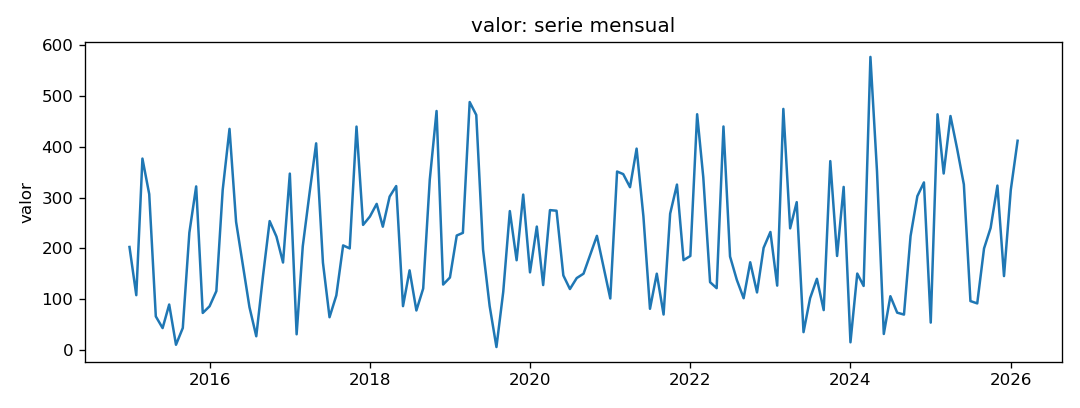
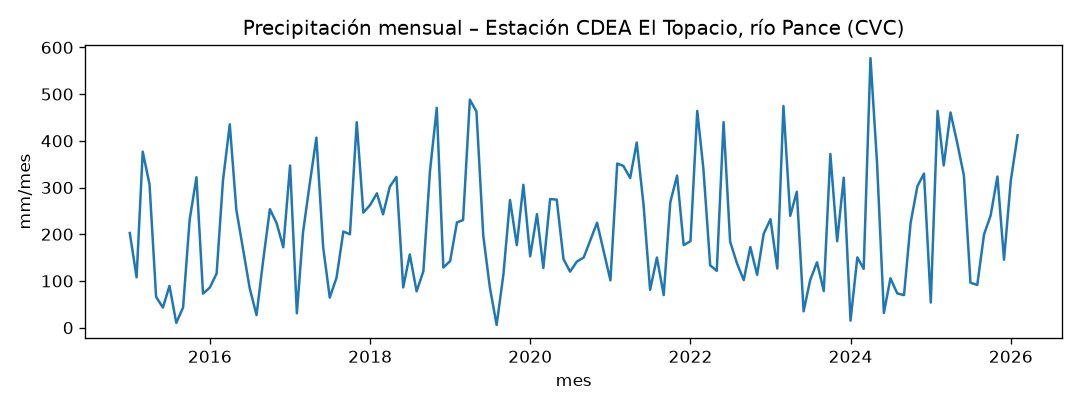
Parte 1: ficha de datos, atípicos sobre residuo STL y sección 1 del informe

diff --git a/miniproyecto.py b/miniproyecto.py
@@ -44,7 +44,7 @@ PERIODO = 12
 
 # Lo que se hizo con los huecos y con los datos atípicos, en una línea. Va
 # a la columna `decision` de la tabla de métricas.
-DECISION = "Sin huecos: índice mensual completo verificado, sin códigos de faltante; atípicos conservados por lluvia real"
+DECISION = "Sin huecos (regla del 80 % no activada); atípicos del residuo STL conservados; meses con totales diarios señalados como posible artefacto"
 
 
 def preparar(serie):
@@ -77,13 +77,23 @@ def preparar(serie):
     print(f"  Valores negativos / centinelas  : {negativos}")
     print(f"  Meses con lluvia = 0 mm         : {ceros} (mínimo observado: {serie.min():.1f} mm)")
 
-    # 3. Detección de atípicos estadísticos
-    q1 = serie.quantile(0.25)
-    q3 = serie.quantile(0.75)
+    # 3. Atípicos sobre el residuo de la STL robusta: compara cada mes con lo
+    # esperado para ese mes (tendencia + estacional), no con toda la serie
+    stl = STL(serie, period=PERIODO, robust=True).fit()
+    residuo = stl.resid
+    q1, q3 = residuo.quantile([0.25, 0.75])
     iqr = q3 - q1
-    atipicos = serie[(serie < q1 - 1.5 * iqr) | (serie > q3 + 1.5 * iqr)]
-    print(f"  Atípicos estadísticos (1.5*IQR) : {len(atipicos)} meses detectados (máximo: {serie.max():.1f} mm en {serie.idxmax():%Y-%m})")
-    print(f"  Decisión sobre atípicos         : Conservar (corresponden a lluvia real / eventos La Niña)\n")
+    limite_inf, limite_sup = q1 - 1.5 * iqr, q3 + 1.5 * iqr
+    atipicos = residuo[(residuo < limite_inf) | (residuo > limite_sup)]
+    print(f"  Atípicos (IQR del residuo STL)  : {len(atipicos)} meses fuera de "
+          f"[{limite_inf:.1f}, {limite_sup:.1f}] mm")
+    tabla = pd.DataFrame({"observado": serie[atipicos.index],
+                          "esperado": (stl.trend + stl.seasonal)[atipicos.index],
+                          "residuo": atipicos,
+                          "peso STL": pd.Series(stl.weights, index=serie.index)[atipicos.index]})
+    tabla.index = tabla.index.strftime("%Y-%m")
+    print(tabla.sort_values("residuo", key=abs, ascending=False).round(2).to_string())
+    print("  Decisión sobre atípicos         : conservar (meses con totales diarios: posible artefacto de medición)\n")
 
     # Validaciones formales
     assert nans_al_reindexar == 0, f"Faltan {nans_al_reindexar} meses en la secuencia histórica"
@@ -96,8 +106,9 @@ def preparar(serie):
 def graficar_serie(serie):
     figura, eje = plt.subplots(figsize=(9, 3.4))
     eje.plot(serie.index, serie.to_numpy())
-    eje.set_title(f"{VALOR}: serie mensual")
-    eje.set_ylabel(VALOR)
+    eje.set_title("Precipitación mensual – Estación CDEA El Topacio, río Pance (CVC)")
+    eje.set_ylabel("mm/mes")
+    eje.set_xlabel("mes")
     figura.tight_layout()
     figura.savefig(FIGURAS / "serie.png", dpi=120)
     plt.close(figura)

diff --git a/docs/informe.md b/docs/informe.md
@@ -7,13 +7,115 @@ figuras son las que ese guion deja en `figuras/`. Las fórmulas van en LaTeX
 
 ## 1. La serie
 
-{{Qué mide la serie, de dónde sale (fuente y licencia), frecuencia, periodo y
-número de observaciones. Por qué el grupo la eligió.}}
+La serie es la **precipitación mensual acumulada (mm)** de la estación
+**CDEA El Topacio** (código 2629020601), en la cuenca del río Pance (Cali,
+Valle del Cauca). Proviene de la red hidrometeorológica de la **Corporación
+Autónoma Regional del Valle del Cauca (CVC)**, que suministró por correo
+electrónico, para uso académico, los archivos `EXPORT_CPANCE_PRECIP_*.xls`;
+se cita a la CVC como fuente.
+
+Los archivos traen dos tipos de registro: la **telemetría automática**, un
+dato cada 10 minutos (144 por día), y, en algunos días, un **total diario**
+anotado a las 07:00 (el día pluviométrico de 7 a. m. a 7 a. m.). La serie
+mensual se construyó con el script `preparar_serie.py`: une las hojas de los
+archivos, quita los registros duplicados y suma todos los registros de cada
+mes calendario, $y_t = \sum_{i \in \text{mes } t} p_i$, con $p_i$ la lluvia de
+cada registro. Un mes con menos del 80 % de días con algún dato se deja vacío.
+La serie resultante es **mensual**, va de **enero de 2015 a febrero de 2026** y
+tiene **134 observaciones**, más del doble del mínimo de 60 que necesita el
+*backtest* (24 meses de prueba y al menos 36 para el primer ajuste).
+
+El grupo la eligió porque es insumo de un trabajo de tesis y porque tiene una
+estacionalidad marcada: el régimen de lluvias de la zona andina colombiana es
+**bimodal**, con temporadas húmedas en marzo–mayo y octubre–noviembre y una
+temporada seca en julio–agosto, lo que la hace adecuada para trabajar la
+diferencia estacional y el SARIMA.
 
 ![La serie](../figuras/serie.png)
 
-{{Huecos y datos atípicos: cuáles hay, qué se decidió con cada uno y por qué.
-Esta decisión es la columna `decision` de la tabla.}}
+**Huecos.** Como en el curso (sesión 1, §7; sesión 2, §14), primero se
+comprueba si faltan meses, porque con huecos la STL devuelve vacíos sin avisar
+y las métricas se promedian sobre menos meses. La regla del 80 % nunca se
+activó: el mes con menos cobertura (mayo de 2017) tuvo datos en el 90 % de
+sus días. La función `preparar` reconstruye además el índice mensual
+completo: los 134 meses están presentes, sin fechas repetidas, sin valores
+negativos ni códigos de faltante (como $-999$) y sin meses en 0 mm (el mínimo
+es 5.7 mm, en agosto de 2019). No hubo nada que imputar; si hubiera huecos,
+la opción del curso sería la interpolación lineal.
+
+Al revisar los registros crudos apareció un problema que la cobertura no
+detecta: en algunos días la telemetría transmite **solo ceros** (143 registros
+en 0 mm) y la lluvia del día aparece como un **total diario a las 07:00**, con
+valores de 30 a 131 mm, imposibles en 10 minutos. Todo indica que el sensor
+automático falló y la lluvia se registró por otra vía. Estos meses tienen la
+mayor parte de su lluvia en totales diarios:
+
+| Mes | Total (mm) | Parte en totales diarios |
+|---|---|---|
+| 2015-05 | 66.0 | 84 % |
+| 2015-06 | 43.0 | 98 % |
+| 2019-04 | 488.1 | 71 % |
+| 2020-11 | 224.6 | 67 % |
+| 2022-01 a 2022-03 | 185.0 / 464.1 / 340.0 | más del 90 % |
+| 2022-06 | 440.0 | casi todo (69 registros en el mes) |
+| 2023-05 | 291.0 | todo (un registro por día) |
+| 2025-12 | 145.4 | 64 % |
+
+La serie combina entonces dos formas de medir. En unos pocos días hay
+lluvia en los dos tipos de registro (por ejemplo, octubre de 2019), lo que
+sugiere un posible doble conteo pequeño.
+
+**Atípicos.** Un criterio sobre la serie completa no sirve para una serie
+estacional: 400 mm es normal en abril y extraordinario en agosto. Por eso los
+atípicos se buscan en el residuo de la STL robusta,
+$R_t = y_t - T_t - S_t$, que compara cada mes con lo esperado para ese mes. Se
+marca como atípico el mes cuyo residuo cae fuera de
+$[Q_1 - 1.5\,\mathrm{IQR},\ Q_3 + 1.5\,\mathrm{IQR}]$ de los residuos, es decir,
+fuera de $[-174.5,\ 172.7]$ mm. Salen 7 meses:
+
+| Mes | Observado (mm) | Esperado $T_t + S_t$ (mm) | Residuo (mm) | Peso STL |
+|---|---|---|---|---|
+| 2025-12 | 145.4 | 502.3 | −356.9 | 0.00 |
+| 2022-06 | 440.0 | 139.2 | +300.8 | 0.00 |
+| 2024-04 | 577.0 | 299.1 | +277.9 | 0.00 |
+| 2023-03 | 474.6 | 232.2 | +242.4 | 0.01 |
+| 2022-05 | 121.6 | 344.4 | −222.8 | 0.07 |
+| 2023-10 | 371.8 | 157.4 | +214.4 | 0.10 |
+| 2022-02 | 464.1 | 278.4 | +185.7 | 0.23 |
+
+La STL robusta les da un peso casi nulo, de modo que no deforman la tendencia
+ni la estacional y quedan en el residuo. Su lectura, contrastada con los
+registros crudos:
+
+- **Diciembre de 2025** (−356.9 mm) es en buena parte un **efecto de borde**:
+  está al final de la serie, donde la tendencia LOESS solo tiene vecinos de un
+  lado y sube a unos 340 mm/mes, así que el valor esperado (502 mm) está
+  inflado. Además, el 64 % de su lluvia viene de totales diarios.
+- **Junio de 2022** (+300.8 mm) y **febrero de 2022** (+185.7 mm) se midieron
+  casi por completo con totales diarios. Junio cae en una temporada que
+  debería ser seca y durante el episodio de La Niña 2020–2023, que aumenta la
+  lluvia en la región andina; pero el cambio en la forma de medir también
+  puede explicar el salto. Son **posibles atípicos de medición**.
+- **Mayo de 2022** (−222.8 mm) es telemetría con el 97 % de los registros en
+  cero, justo entre dos meses medidos con totales diarios: puede ser un mes
+  seco o un sensor que falló sin respaldo diario.
+- **Abril de 2024** (577 mm, el máximo), **marzo de 2023** y **octubre de
+  2023** se midieron con telemetría y caen en temporadas húmedas: son meses
+  lluviosos reales, más intensos que lo habitual.
+
+**Decisión.** Los atípicos se **conservan**. Ninguno muestra un valor imposible
+(negativo o código de faltante). Los medidos con telemetría son lluvia real, y
+quitarlos haría que los modelos subestimaran los meses muy lluviosos, que son
+justamente los que interesa pronosticar. Los medidos con totales diarios
+quedan señalados como posibles artefactos de medición: corregirlos exigiría
+reconstruir la serie desde los registros crudos con una regla por día (usar
+el total diario cuando exista y, si no, la suma de la telemetría), lo que se
+deja para el miniproyecto 2. La serie no se modifica, así que esta decisión no
+introduce información del futuro en el *backtest*.
+
+Decisión (columna `decision` de la tabla): *sin huecos (regla del 80 % no
+activada); atípicos del residuo STL conservados; meses con totales diarios
+señalados como posible artefacto*.
 
 ## 2. Componentes
 

diff --git a/datos/README.md b/datos/README.md
@@ -5,14 +5,15 @@ serie de ejemplo cuando ya no la use.
 
 | Campo | Valor |
 |---|---|
-| Archivo | {{nombre del CSV}} |
-| Qué mide | {{...}} |
-| Fuente | {{institución o conjunto de datos, con enlace}} |
-| Licencia | {{...}} |
+| Archivo | `pance_mensual.csv` |
+| Qué mide | Precipitación mensual acumulada (mm) en la estación CDEA El Topacio (código 2629020601), cuenca del río Pance (Cali, Valle del Cauca) |
+| Fuente | Corporación Autónoma Regional del Valle del Cauca (CVC), red de telemetría hidrometeorológica ([cvc.gov.co](https://www.cvc.gov.co)). Datos suministrados por la CVC por correo electrónico |
+| Licencia | Uso académico autorizado por la CVC; se cita a la CVC como fuente. No es una licencia abierta |
 | Frecuencia | mensual |
-| Periodo | {{primer mes}} a {{último mes}} ({{n}} observaciones) |
-| Columna de fecha | {{...}} |
-| Columna que se pronostica | {{...}} |
+| Construcción | `preparar_serie.py` une los archivos `EXPORT_CPANCE_PRECIP_*.xls` (telemetría cada 10 minutos y, en días con falla del sensor, totales diarios a las 07:00), quita duplicados y suma por mes. Un mes con menos del 80 % de días con datos queda vacío; la regla no se activó |
+| Periodo | 2015-01 a 2026-02 (134 observaciones) |
+| Columna de fecha | `mes` (formato `AAAA-MM`) |
+| Columna que se pronostica | `valor` (mm/mes) |
 
 ## Serie de ejemplo
 
